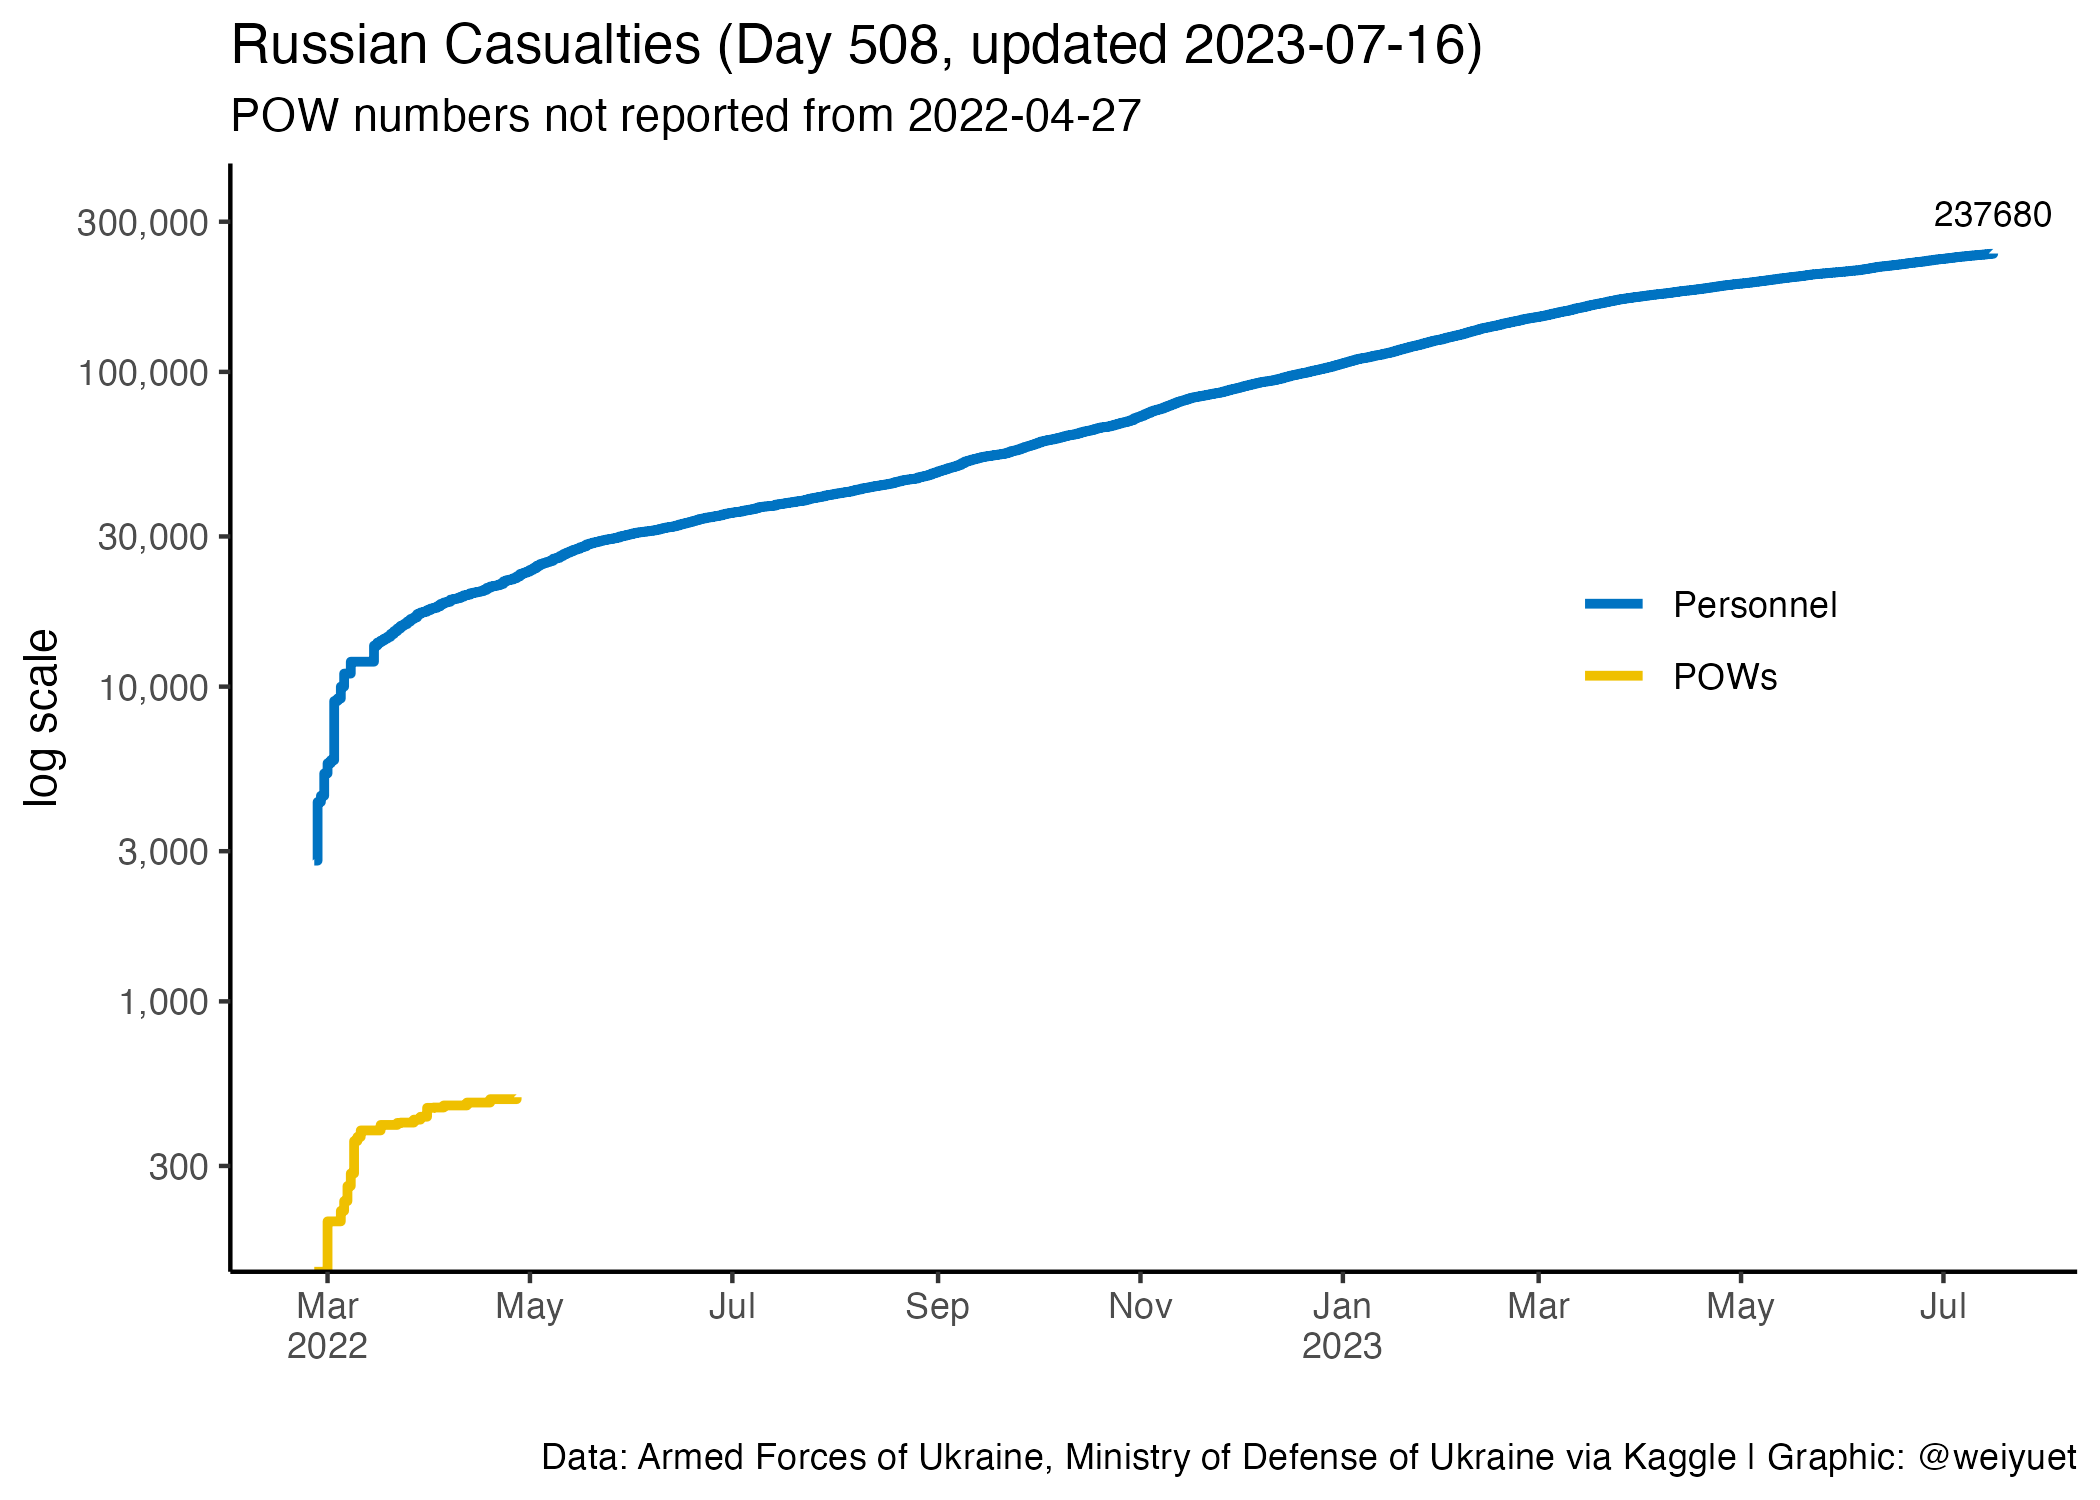
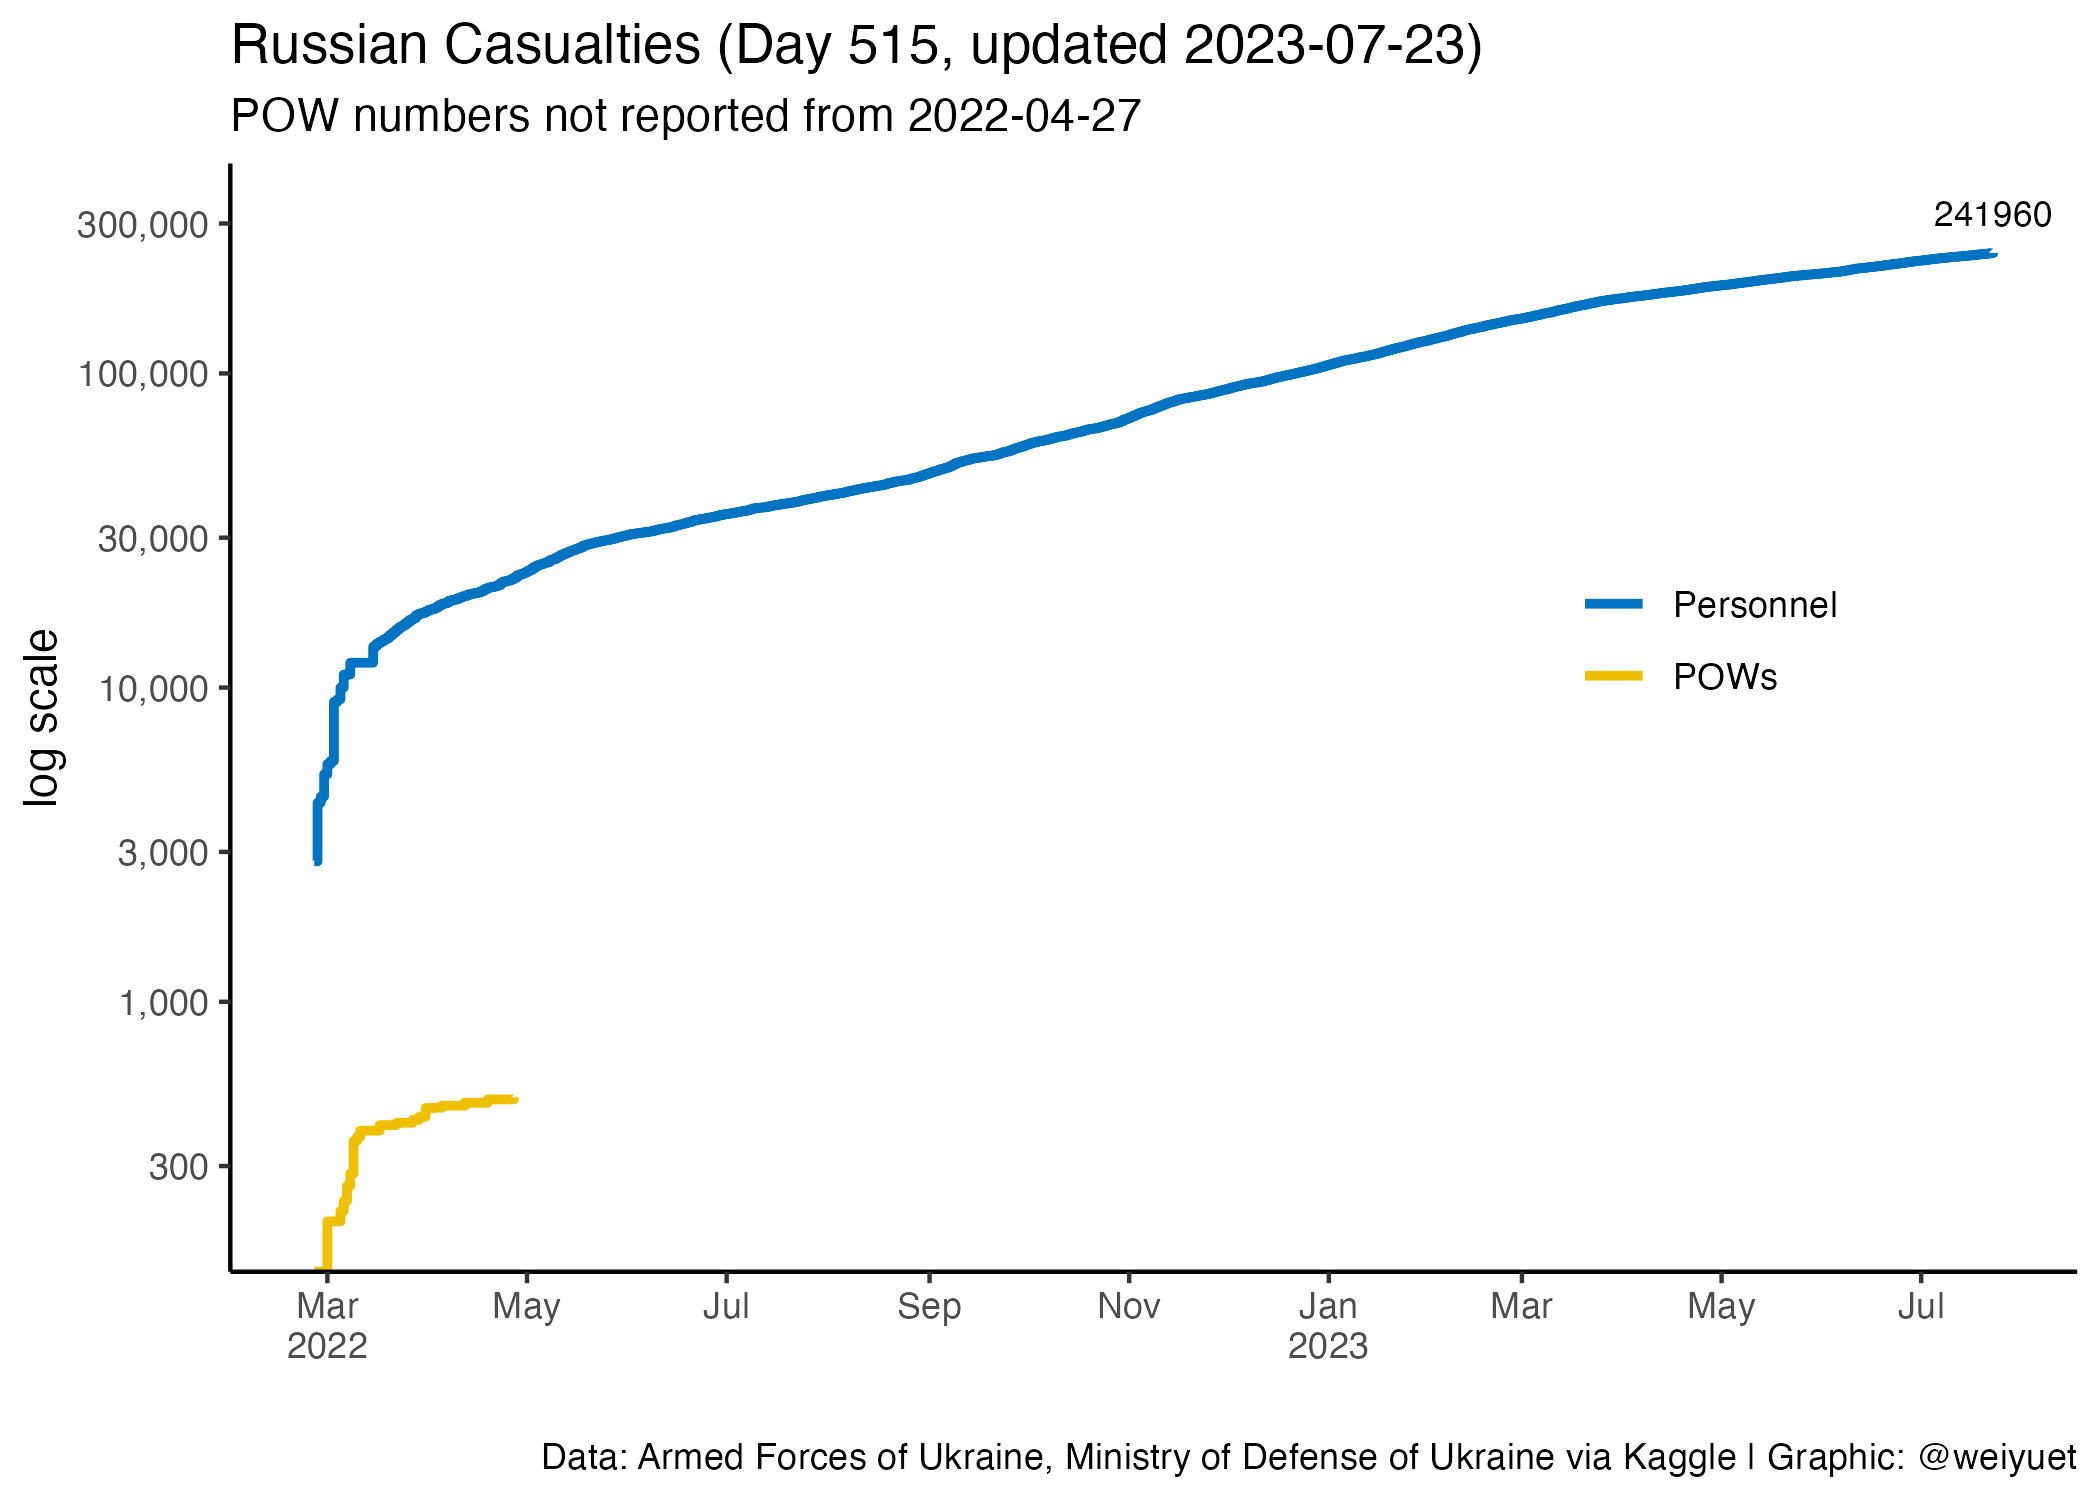
Updated 25 July

diff --git a/README.md b/README.md
@@ -6,7 +6,7 @@ Wong Wei Yuet 2022-05-26
 
   - War casualty data updated daily from [`Petro Ivanyuk's Kaggle`](https://www.kaggle.com/datasets/piterfm/2022-ukraine-russian-war). All data is official and put together by `Petro`
 
-Updated: 2023-07-16
+Updated: 2023-07-25
 
 ## Summary of Conflict
 
